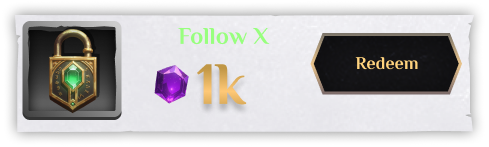
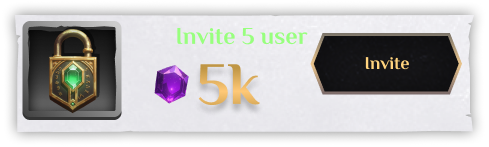
mdgd add dummy db and modify task logic

Changed region(s): [[0.3988, 0.4354, 0.5521, 0.7619], [0.3374, 0.1905, 0.6442, 0.2993], [0.7055, 0.381, 0.8589, 0.4898]]

diff --git a/src/app/daily/page.js b/src/app/daily/page.js
@@ -13,6 +13,8 @@ export default function DailyTask() {
     const [disabledDaily, setDisabledDaily] = useState([true, true]);
     //1/24 표시 관리
     const [remainHours, setRemainHours] = useState(null);
+    //invite 버튼 5번 클릭 시 포인트 지급 및 비활성화 관리
+    const [inviteCount, setInviteCount] = useState(0);
 
 
     useEffect(() => {
@@ -22,19 +24,24 @@ export default function DailyTask() {
         const lastUpdateDaily = localStorage.getItem("last_update_day1"); //daily
         const lastUpdateRetweet = localStorage.getItem("last_update_day2"); //retweet
         const today = new Date().toISOString().split("T")[0]; // YYYY-MM-DD 형식
-        // 현재 시간만 표시
-        const nowTime = new Date();
-        const nowHours = nowTime.getHours();
         // 현재 시간 표시
+        const nowHours = new Date().getHours();
+        //invite 카운트 가져오기
+        const savedCount = localStorage.getItem("clickCount");
+
         setRemainHours(24 - nowHours);
 
-        setDisabledDaily(prev => [
-            lastUpdateDaily === today ? false : true,
+        setDisabledDaily([
+            lastUpdateDaily !== today,
             lastUpdateRetweet === today ? false : true
         ]);
 
         if (storedState) {
             setDisabledTask(JSON.parse(storedState));
+        }
+
+        if (savedCount) {
+            setInviteCount(Number(savedCount));
         }
     }, []);
 
@@ -52,13 +59,23 @@ export default function DailyTask() {
 
     // task list 버튼 클릭 시 상태 업데이트 및 저장
     const handleClick = (index, reward) => {
-        const newState = [...disabledTask];
-        const nowN2O = Number(localStorage.getItem("n2o"));
-        newState[index] = false; // 클릭된 버튼 비활성화
-        setDisabledTask(newState);
-        localStorage.setItem("DisabledTask", JSON.stringify(newState)); // localStorage에 저장
-        localStorage.setItem("n2o", nowN2O + reward);
+        if (index === 1 && inviteCount < 4) {
+            setInviteCount((prev) => prev + 1);
+        } else {
+            const nowN2O = Number(localStorage.getItem("n2o"));
+            setDisabledTask((prev) => {
+                const newState = [...prev];
+                newState[index] = false; // 클릭된 버튼 비활성화
+                localStorage.setItem("DisabledTask", JSON.stringify(newState)); // localStorage에 저장
+                return newState;
+            });
+            localStorage.setItem("n2o", nowN2O + reward);
+        }
     };
+    //invite카운트 변화 있을때만 로컬에 저장
+    useEffect(() => {
+        localStorage.setItem("clickCount", inviteCount);
+    }, [inviteCount])
 
     //task list 링크 
     const links = ['https://x.com/Fnfs_Official', '/invite']
@@ -122,7 +139,7 @@ export default function DailyTask() {
                                 />
                             </div>
                         }
-                        <div className="absolute bottom-0 w-[38vmax] aspect-[480/75]">
+                        <div className="absolute bottom-0 w-[38vmax] max-w-[450px] aspect-[480/75]">
                             <Image
                                 src="/image/taskpartition.png"
                                 alt="main logo"
@@ -167,6 +184,7 @@ export default function DailyTask() {
                                     layout="fill"
                                     objectFit="cover"
                                 />
+                                <p className="absolute bottom-[5%] right-[5%] text-[2.5vmax] sm:text-[1.5vmin] text-[#D0D0D0] font-bold">{inviteCount}/5</p>
                             </div>
                             :
                             <div className="w-[38vmax] sm:w-[22vmax] aspect-[489/147] relative active:scale-90 transition-transform duration-200">
@@ -176,9 +194,10 @@ export default function DailyTask() {
                                     layout="fill"
                                     objectFit="cover"
                                 />
+                                <p className="absolute bottom-[5%] right-[5%] text-[2.5vmax] sm:text-[1.5vmin] text-[#D0D0D0] font-bold">5/5</p>
                             </div>
                         }
-                        <div className="absolute bottom-0 w-[38vmax] aspect-[480/75]">
+                        <div className="absolute bottom-0 w-[38vmax] max-w-[450px] aspect-[480/75]">
                             <Image
                                 src="/image/taskpartition.png"
                                 alt="main logo"

diff --git a/src/app/leaderboard/page.js b/src/app/leaderboard/page.js
@@ -4,6 +4,7 @@ import '../../../styles/leaderboard.css';
 import { franklinGothic } from "../../../styles/fonts";
 import { useEffect, useState } from "react";
 import { AnimatePresence, motion } from 'framer-motion';
+import rankerDb from "../db/rankerdb";
 
 export default function LeaderBoard() {
     const rankerData = [
@@ -102,7 +103,7 @@ export default function LeaderBoard() {
                      bg-[length:100%_100%] bg-no-repeat " style={{ backgroundImage: `url(/image/inviteinfo.png)` }}>
                         <div className="scroll-container w-[85%] h-[95%] flex flex-col gap-3 overflow-scroll overflow-x-hidden">
 
-                            {rankerData.map((ranker, index) => (
+                            {rankerDb.map((ranker, index) => (
                                 <div key={ranker.name} className="w-full flex justify-stretch items-center " >
                                     <div className=" relative w-[20%] aspect-[77/77]">
                                         <Image
@@ -112,9 +113,9 @@ export default function LeaderBoard() {
                                             objectFit="cover"
                                         />
                                     </div>
-                                    <p className=" flex-1 text-center text-[#FFD37E] text-[4.2vmin] sm:text-[2.3vmin]">{ranker.name.length > 6 ? `${ranker.name.slice(0, 5)}···` : ranker.name}</p>
-                                    <p className=" flex-1 text-center text-[#FFD37E] text-[5vmin] sm:text-[2.3vmin]">{`00${index + 1}`}</p>
-                                    <p className=" flex-1 text-center text-[#FFD37E] text-[4vmin] sm:text-[1.6vmin]">{ranker.n2o}</p>
+                                    <p className=" flex-1 text-center text-[#FFD37E] text-[4.2vmin] sm:text-[2.3vmin]">{ranker.name}</p>
+                                    <p className=" flex-1 text-center text-[#FFD37E] text-[4vmin] sm:text-[1.6vmin]">{ranker.score}</p>
+                                    <p className=" flex-1 text-center text-[#FFD37E] text-[5vmin] sm:text-[2.3vmin]">{index > 8 ? `0${index + 1}` :`00${index + 1}`}</p>
                                 </div>
                             ))}
 

diff --git a/src/app/db/rankerDb.js b/src/app/db/rankerDb.js
@@ -1,0 +1,34 @@
+const rankerDb = [
+    { name: "A*···*Z", score: "20B" },
+    { name: "B*···*Y", score: "19.8B" },
+    { name: "C*···*X", score: "19.2B" },
+    { name: "D*···*W", score: "19B" },
+    { name: "E*···*V", score: "18.4B" },
+    { name: "F*···*U", score: "18B" },
+    { name: "G*···*T", score: "17.6B" },
+    { name: "H*···*S", score: "17.2B" },
+    { name: "I*···*R", score: "16.9B" },
+    { name: "J*···*Q", score: "15B" },
+    { name: "K*···*P", score: "14.6B" },
+    { name: "L*···*O", score: "14.2B" },
+    { name: "M*···*N", score: "13.8B" },
+    { name: "N*···*M", score: "13B" },
+    { name: "O*···*L", score: "12.9B" },
+    { name: "P*···*K", score: "12.6B" },
+    { name: "Q*···*J", score: "12.5B" },
+    { name: "R*···*I", score: "12B" },
+    { name: "S*···*H", score: "11.9B" },
+    { name: "T*···*G", score: "11B" },
+    { name: "U*···*F", score: "10.8B" },
+    { name: "V*···*E", score: "10.4B" },
+    { name: "W*···*D", score: "10.3B" },
+    { name: "X*···*C", score: "10.1B" },
+    { name: "Y*···*B", score: "9.9B" },
+    { name: "Z*···*A", score: "9.5B" },
+    { name: "A*···*X", score: "9.3B" },
+    { name: "B*···*W", score: "9B" },
+    { name: "C*···*V", score: "8.9B" },
+    { name: "D*···*U", score: "8.7B" }
+  ];
+  
+  export default rankerDb;
